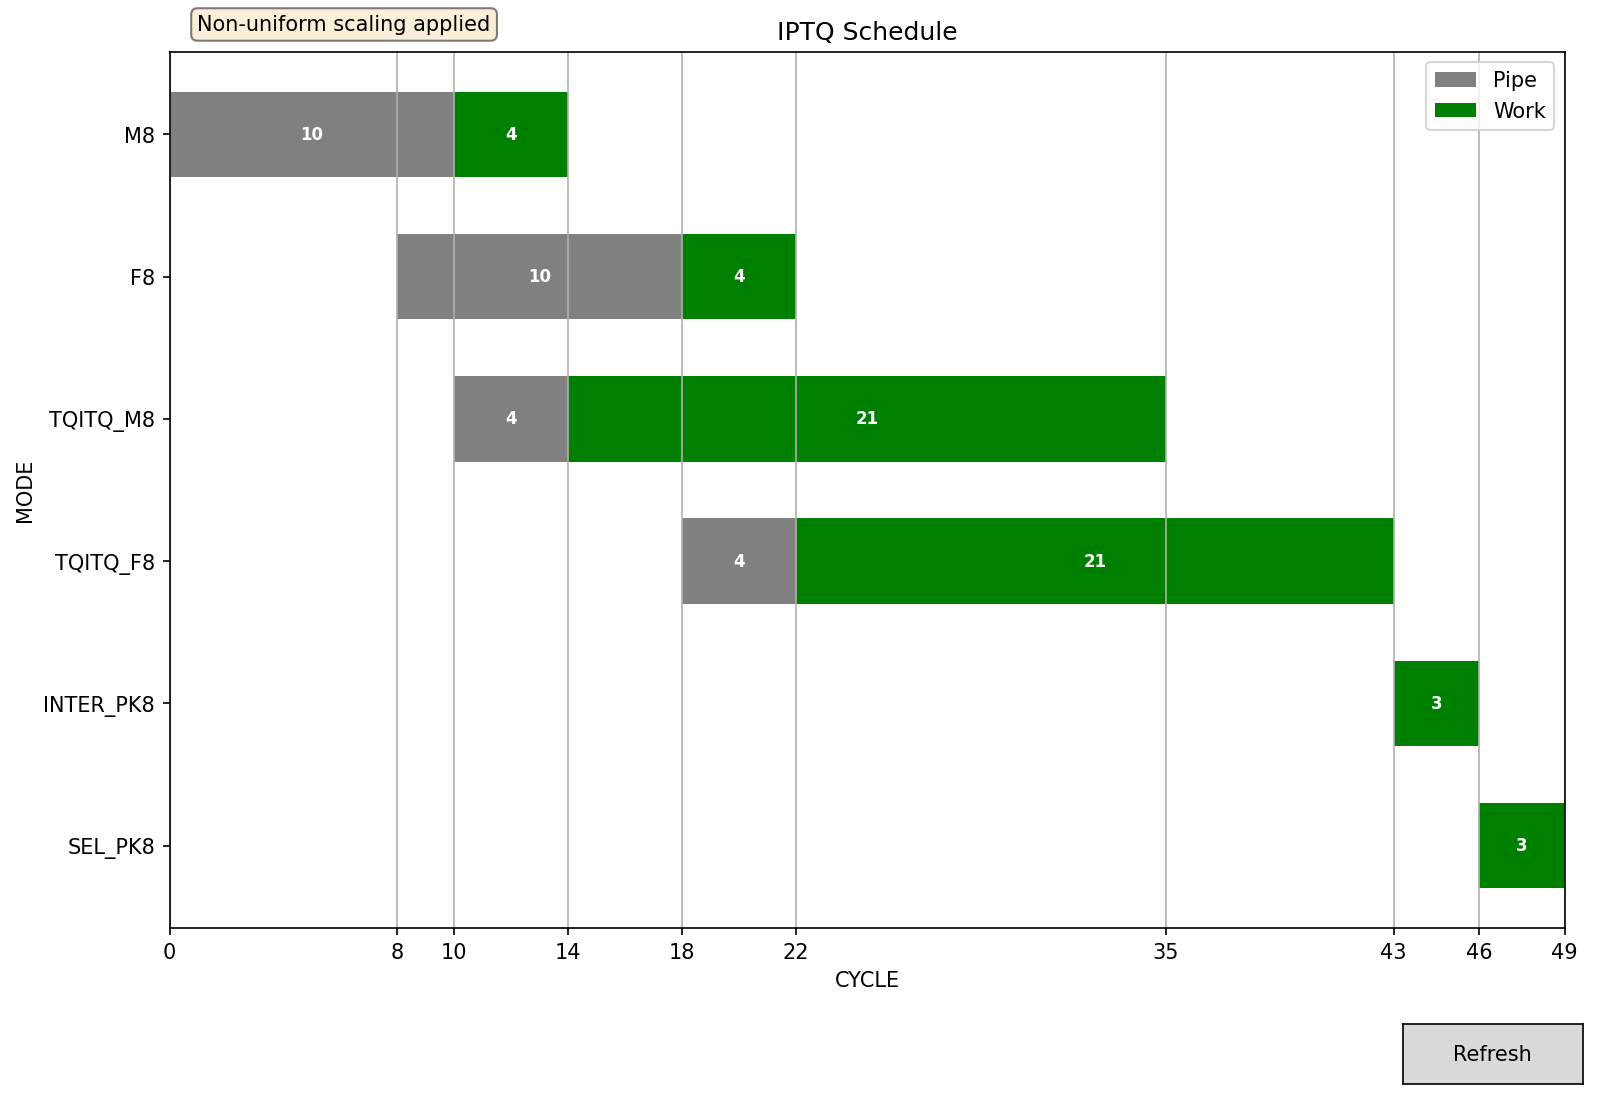
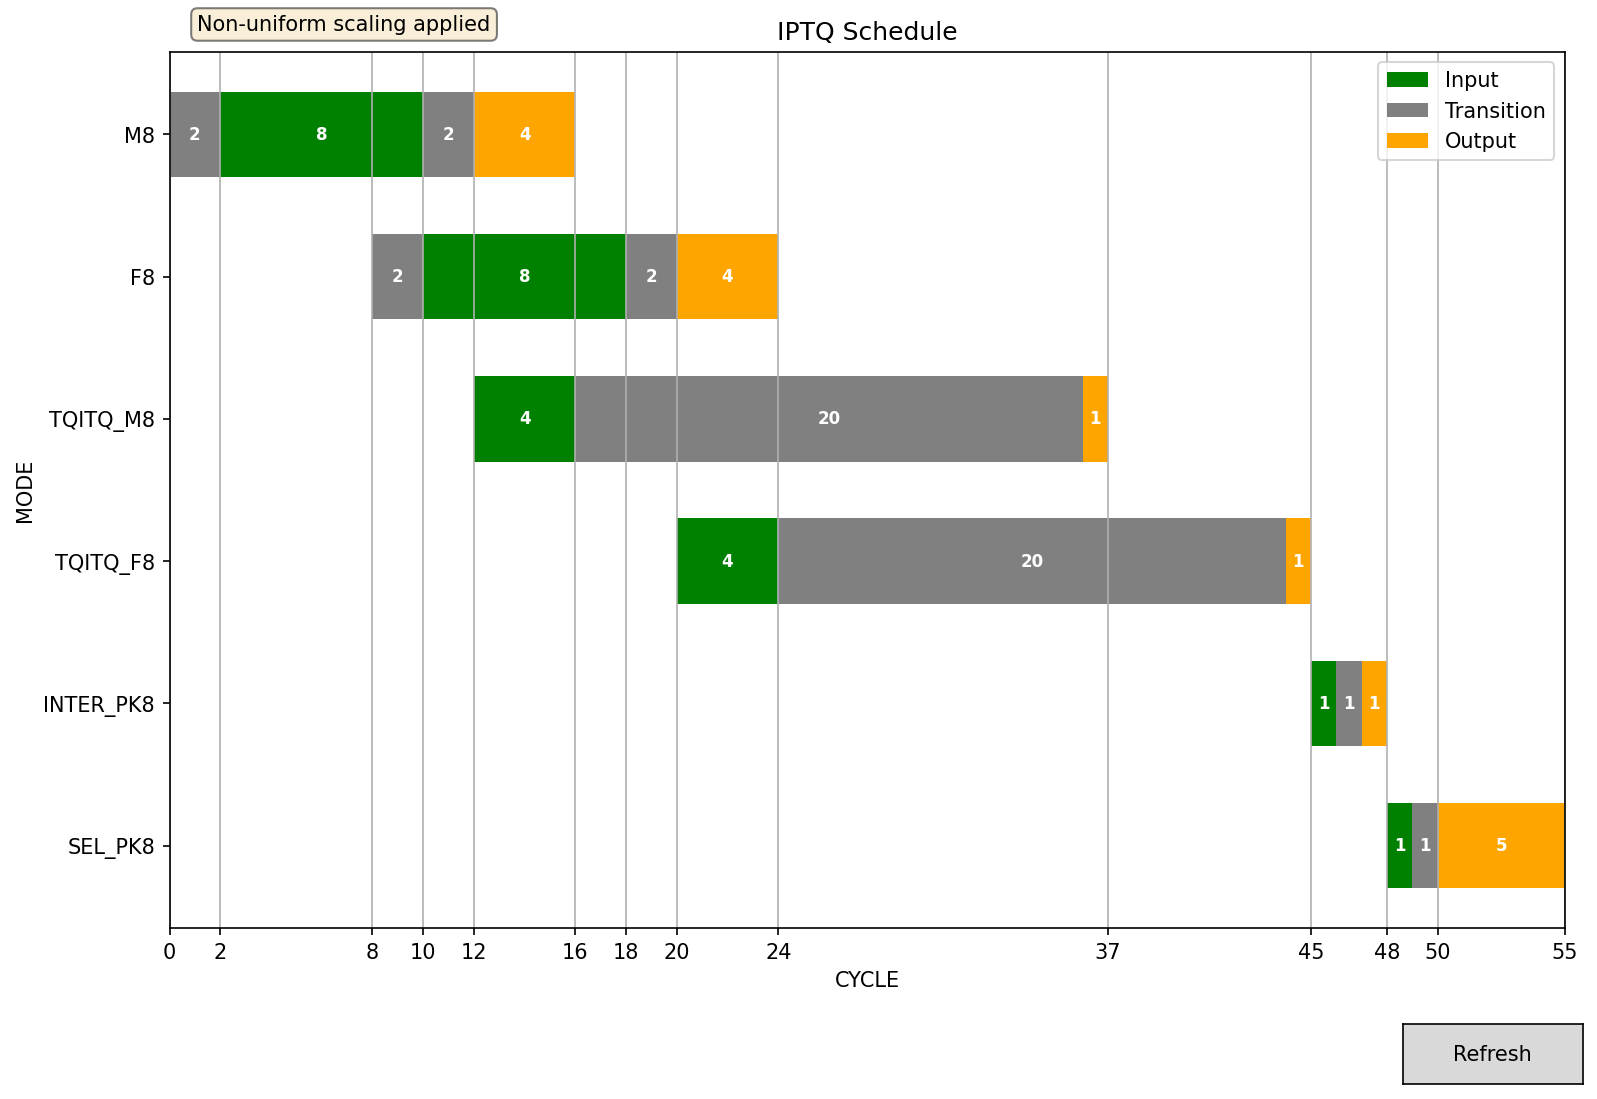
first job

diff --git a/gantt_scheduler.py b/gantt_scheduler.py
@@ -23,24 +23,33 @@ def read_tasks():
             # Read tasks from remaining lines
             reader = csv.DictReader(lines[3:])
             for row in reader:
-                input_begin = int(row['input begin'])
-                input_end_str = row['input end']
-                output_begin_str = row['output begin']
-                output_end_str = row['output end']
-                if input_end_str.startswith('a'):
-                    input_end = input_begin + int(input_end_str[1:])
-                else:
-                    input_end = int(input_end_str)
-                if output_begin_str.startswith('a'):
-                    output_begin = input_end + int(output_begin_str[1:])
-                else:
-                    output_begin = int(output_begin_str)
-                if output_end_str.startswith('a'):
-                    output_end = output_begin + int(output_end_str[1:])
-                else:
-                    output_end = int(output_end_str)
+                mode = row['mode'].strip()
+                pipe_begin_str = row['pipe begin'].strip()
+                input_begin_str = row['input begin'].strip()
+                input_end_str = row['input end'].strip()
+                output_begin_str = row['output begin'].strip()
+                output_end_str = row['output end'].strip()
+
+                # Parse times, handle empty and 'a'
+                def parse_time(base, time_str):
+                    if not time_str:
+                        return None
+                    if time_str.startswith('a'):
+                        return base + int(time_str[1:])
+                    else:
+                        return int(time_str)
+
+                pipe_begin = parse_time(0, pipe_begin_str)
+                input_begin = parse_time(0, input_begin_str)
+                pipe_end = input_begin  # pipe end = input begin
+                input_end = parse_time(input_begin, input_end_str) if input_begin is not None else None
+                output_begin = parse_time(input_end if input_end is not None else input_begin, output_begin_str) if input_begin is not None else None
+                output_end = parse_time(output_begin, output_end_str) if output_begin is not None else None
+
                 tasks.append({
-                    'mode': row['mode'],
+                    'mode': mode,
+                    'pipe_begin': pipe_begin,
+                    'pipe_end': pipe_end,
                     'input_begin': input_begin,
                     'input_end': input_end,
                     'output_begin': output_begin,
@@ -75,43 +84,43 @@ def plot_gantt(tasks, config=None):
         plt.figure(1)
     plt.clf()  # Clear the figure
 
-    # Draw each task with two parts: pipe (gray) and work (green) connected, with non-uniform scaling for positions and widths
+    # Draw each task with non-uniform scaling for bar widths only (positions use original)
     threshold = 50
-    scale_short = 1.0
     scale_long = 0.1
-    # Calculate scaled positions
-    def scale_value(value):
-        return value * scale_short if value <= threshold else threshold + (value - threshold) * scale_long
+
+    def scale_duration(duration):
+        return duration if duration <= threshold else threshold + (duration - threshold) * scale_long
 
     for i, task in enumerate(reversed(tasks)):
-        input_start = task['input_begin']
-        input_duration = task['input_end'] - task['input_begin']
-        gray_start = task['input_end']
-        gray_duration = task['output_begin'] - task['input_end']
-        orange_start = task['output_begin']
-        orange_duration = task['output_end'] - task['output_begin']
-        # Scale starts and durations
-        scaled_input_start = scale_value(input_start)
-        scaled_input = scale_value(input_duration)
-        scaled_gray_start = scale_value(gray_start)
-        scaled_gray = scale_value(gray_duration)
-        scaled_orange_start = scale_value(orange_start)
-        scaled_orange = scale_value(orange_duration)
-        # Draw bars centered at i + 0.3
         bar_y = i + 0.3
-        if scaled_input > 0:
-            plt.barh(bar_y, scaled_input, left=scaled_input_start, height=0.6, color='green')
-        if scaled_gray > 0:
-            plt.barh(bar_y, scaled_gray, left=scaled_gray_start, height=0.6, color='gray')
-        if scaled_orange > 0:
-            plt.barh(bar_y, scaled_orange, left=scaled_orange_start, height=0.6, color='orange')
-        # Add duration text centered on bars
-        if input_duration > 0:
-            plt.text(scaled_input_start + scaled_input / 2, bar_y, f'{input_duration}', ha='center', va='center', fontsize=8, color='white', weight='bold')
-        if gray_duration > 0:
-            plt.text(scaled_gray_start + scaled_gray / 2, bar_y, f'{gray_duration}', ha='center', va='center', fontsize=8, color='white', weight='bold')
-        if orange_duration > 0:
-            plt.text(scaled_orange_start + scaled_orange / 2, bar_y, f'{orange_duration}', ha='center', va='center', fontsize=8, color='white', weight='bold')
+        # Pipe segment (gray)
+        if task['pipe_begin'] is not None and task['pipe_end'] is not None:
+            pipe_duration = task['pipe_end'] - task['pipe_begin']
+            scaled_pipe = scale_duration(pipe_duration)
+            if scaled_pipe > 0:
+                plt.barh(bar_y, scaled_pipe, left=task['pipe_begin'], height=0.6, color='gray')
+                plt.text(task['pipe_begin'] + scaled_pipe / 2, bar_y, f'{pipe_duration}', ha='center', va='center', fontsize=8, color='white', weight='bold')
+        # Input segment (green)
+        if task['input_begin'] is not None and task['input_end'] is not None:
+            input_duration = task['input_end'] - task['input_begin']
+            scaled_input = scale_duration(input_duration)
+            if scaled_input > 0:
+                plt.barh(bar_y, scaled_input, left=task['input_begin'], height=0.6, color='green')
+                plt.text(task['input_begin'] + scaled_input / 2, bar_y, f'{input_duration}', ha='center', va='center', fontsize=8, color='white', weight='bold')
+        # Transition (gray)
+        if task['input_end'] is not None and task['output_begin'] is not None:
+            gray_duration = task['output_begin'] - task['input_end']
+            scaled_gray = scale_duration(gray_duration)
+            if scaled_gray > 0:
+                plt.barh(bar_y, scaled_gray, left=task['input_end'], height=0.6, color='gray')
+                plt.text(task['input_end'] + scaled_gray / 2, bar_y, f'{gray_duration}', ha='center', va='center', fontsize=8, color='white', weight='bold')
+        # Output segment (orange)
+        if task['output_begin'] is not None and task['output_end'] is not None:
+            orange_duration = task['output_end'] - task['output_begin']
+            scaled_orange = scale_duration(orange_duration)
+            if scaled_orange > 0:
+                plt.barh(bar_y, scaled_orange, left=task['output_begin'], height=0.6, color='orange')
+                plt.text(task['output_begin'] + scaled_orange / 2, bar_y, f'{orange_duration}', ha='center', va='center', fontsize=8, color='white', weight='bold')
 
     # Set y-ticks and labels at bar centers
     plt.yticks([i + 0.3 for i in range(len(tasks))], [task['mode'] for task in reversed(tasks)])
@@ -121,19 +130,30 @@ def plot_gantt(tasks, config=None):
     plt.ylabel(config.get('y', 'Modules/Tasks') if config else 'Modules/Tasks')
     plt.title(config.get('tile', 'Module Scheduling Gantt Chart') if config else 'Module Scheduling Gantt Chart')
 
-    # Set x-axis range to scaled times
-    max_scaled = max(scale_value(task['output_end']) for task in tasks)
-    plt.xlim(0, max_scaled)
+    # Set x-axis range to original times
+    max_time = max(task['output_end'] for task in tasks if task['output_end'] is not None)
+    plt.xlim(0, max_time)
 
-    # Set x-ticks at scaled positions with original labels
+    # Set x-ticks at original positions, skip left side of length-1 blocks
     tick_positions = []
     tick_labels = []
     for task in tasks:
-        for orig_time in [task['input_begin'], task['input_end'], task['output_begin'], task['output_end']]:
-            scaled_time = scale_value(orig_time)
-            if scaled_time not in tick_positions:  # Avoid duplicates
-                tick_positions.append(scaled_time)
-                tick_labels.append(str(orig_time))
+        input_duration = task['input_end'] - task['input_begin'] if task['input_end'] and task['input_begin'] else 0
+        gray_duration = task['output_begin'] - task['input_end'] if task['output_begin'] and task['input_end'] else 0
+        orange_duration = task['output_end'] - task['output_begin'] if task['output_end'] and task['output_begin'] else 0
+        for orig_time in [task['pipe_begin'], task['input_begin'], task['input_end'], task['output_begin'], task['output_end']]:
+            if orig_time is not None and orig_time not in tick_positions:
+                # Skip left tick if it's the start of a length-1 block
+                skip = False
+                if orig_time == task['input_begin'] and input_duration == 1:
+                    skip = True
+                elif orig_time == task['input_end'] and gray_duration == 1:
+                    skip = True
+                elif orig_time == task['output_begin'] and orange_duration == 1:
+                    skip = True
+                if not skip:
+                    tick_positions.append(orig_time)
+                    tick_labels.append(str(orig_time))
     # Sort by position
     sorted_indices = sorted(range(len(tick_positions)), key=lambda i: tick_positions[i])
     plt.xticks([tick_positions[i] for i in sorted_indices], [tick_labels[i] for i in sorted_indices])
